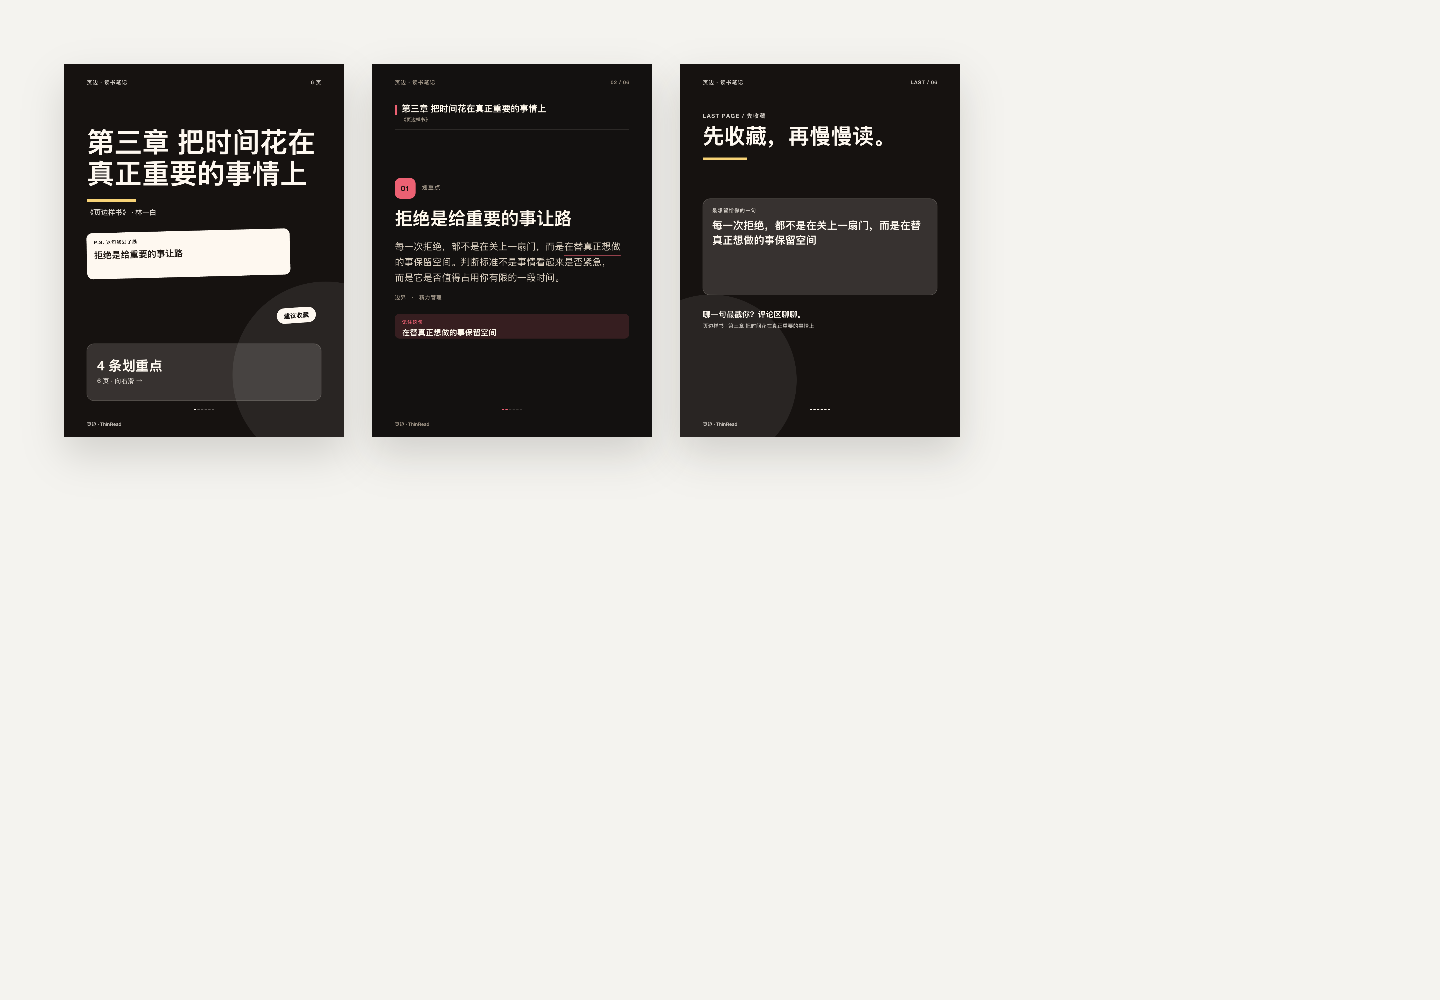
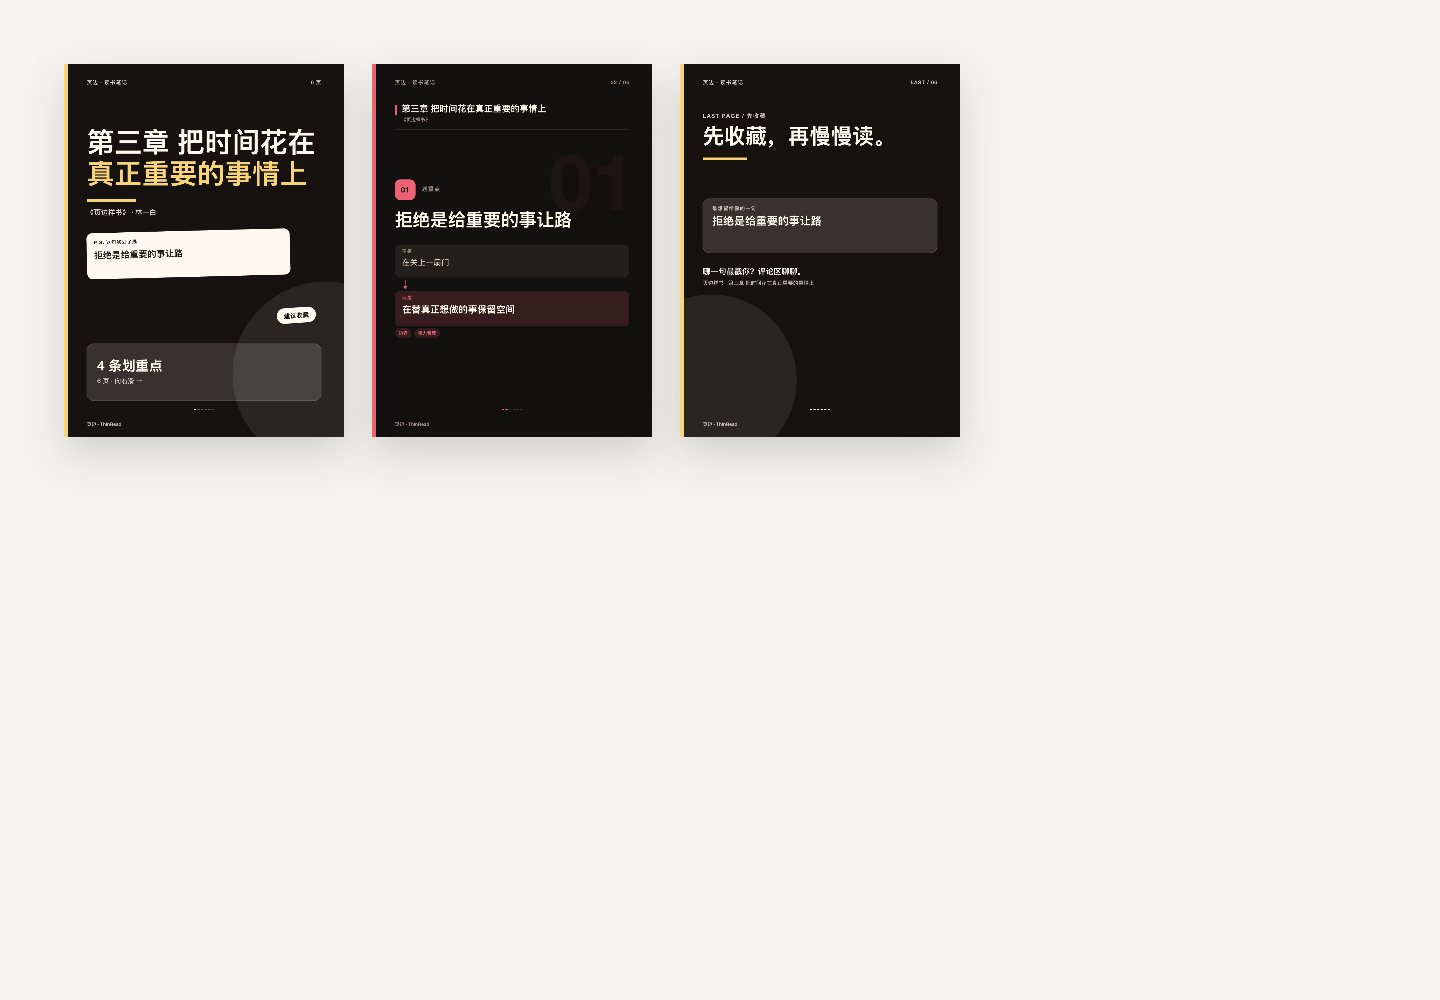
feat: add visual rhythm and contrast diagrams to xhs cards

Changed region(s): [[0.25, 0.155, 0.4375, 0.341], [0.4688, 0.186, 0.6562, 0.341], [0.0625, 0.155, 0.2188, 0.186]]

diff --git a/src/lib/xhs-carousel.ts b/src/lib/xhs-carousel.ts
@@ -172,6 +172,21 @@ function splitLead(content: string): { heading: string; body: string } {
   return { heading: text.slice(0, 74).trim(), body: text.slice(74).trim() }
 }
 
+/** 小红书卡片标题要短；把过长标题的后半句放回正文。 */
+function cutHeading(text: string, max = 28): { display: string; rest: string } {
+  if (text.length <= max) return { display: text, rest: '' }
+  const candidates = [text.split(/[：:]/)[0], text.split(/[，,]/)[0], text.split(/[；;]/)[0]]
+  for (const candidate of candidates) {
+    const value = candidate?.trim() ?? ''
+    if (value.length >= 8 && value.length <= max) {
+      const rest = text.slice(value.length).replace(/^[，,：:；;\s]+/, '').trim()
+      return { display: value, rest }
+    }
+  }
+  const cut = text.slice(0, max - 1).trim()
+  return { display: `${cut}…`, rest: text.slice(max - 1).trim() }
+}
+
 function normalizeCard(note: Note, number: number, bookTitle: string, chapterTitle: string | null): XhsCarouselCard | null {
   const content = flatten(
     note.content
@@ -190,12 +205,14 @@ function normalizeCard(note: Note, number: number, bookTitle: string, chapterTit
   } else {
     body = content
   }
+  const shortHeading = flatten(heading) || content.slice(0, 48)
+  const cut = cutHeading(shortHeading, 28)
+  if (cut.rest) body = [cut.rest, body].filter(Boolean).join(' ')
   if (body && body.length > 120) body = summarizeBody(body, 120)
-  const shortHeading = flatten(heading)
   return {
     id: note.id,
     number,
-    heading: shortHeading.length > 80 ? `${shortHeading.slice(0, 79)}…` : shortHeading || content.slice(0, 48),
+    heading: cut.display,
     body,
     tags: note.tags.slice(0, 4),
     chapterId: note.chapterId,
@@ -643,6 +660,120 @@ function drawDots(
   }
 }
 
+function drawSpine(ctx: CanvasRenderingContext2D, color: string): void {
+  ctx.fillStyle = color
+  ctx.fillRect(0, 0, 16, PAGE_HEIGHT)
+}
+
+function drawGhost(ctx: CanvasRenderingContext2D, text: string, palette: XhsPalette): void {
+  ctx.save()
+  ctx.globalAlpha = palette.dark ? 0.045 : 0.04
+  ctx.fillStyle = palette.accent
+  ctx.font = `800 300px ${SANS}`
+  ctx.textAlign = 'right'
+  ctx.fillText(text, PAGE_WIDTH - RIGHT + 24, 318)
+  ctx.restore()
+  ctx.textAlign = 'left'
+}
+
+function drawTagPills(
+  ctx: CanvasRenderingContext2D,
+  tags: string[],
+  x: number,
+  y: number,
+  palette: XhsPalette,
+): void {
+  let cursor = x
+  for (const tag of tags.slice(0, 3)) {
+    ctx.font = `600 17px ${SANS}`
+    const width = ctx.measureText(tag).width + 30
+    fillRoundRect(ctx, cursor, y, width, 36, 18, palette.accentSoft)
+    ctx.fillStyle = palette.accent
+    ctx.textBaseline = 'middle'
+    ctx.fillText(tag, cursor + 15, y + 19)
+    ctx.textBaseline = 'top'
+    cursor += width + 10
+  }
+}
+
+function parseContrast(text: string): { wrong: string; right: string } | null {
+  const match = text.match(/不是([^，。！？；]{2,32})[，,]?\s*而是([^，。！？；]{2,48})/)
+  if (!match) return null
+  return { wrong: match[1]!.trim(), right: match[2]!.trim() }
+}
+
+function drawContrastFeature(
+  ctx: CanvasRenderingContext2D,
+  part: XhsCarouselPart,
+  palette: XhsPalette,
+  heading: { lines: string[]; lineHeight: number; font: string },
+  bodyText: string,
+): void {
+  const contrast = parseContrast(bodyText)!
+  const areaTop = 300
+  const areaBottom = PAGE_HEIGHT - 236
+  const chip = 80
+  const wrong = fitText(ctx, contrast.wrong, CONTENT_WIDTH - 56, 110, 30, 22, 1.5, SANS, '500')
+  const right = fitText(ctx, contrast.right, CONTENT_WIDTH - 56, 150, 36, 26, 1.5, SANS, '700')
+  const boxA = 58 + wrong.lines.length * wrong.lineHeight + 24
+  const boxB = 58 + right.lines.length * right.lineHeight + 24
+  const arrow = 52
+  const headingHeight = heading.lines.length * heading.lineHeight
+  const tagsHeight = part.tags.length > 0 ? 46 : 0
+  const total = chip + 44 + headingHeight + 38 + boxA + arrow + boxB + tagsHeight
+  let y = areaTop + Math.max(0, (areaBottom - areaTop - total) / 2)
+
+  fillRoundRect(ctx, LEFT, y, chip, chip, 22, palette.accent)
+  ctx.fillStyle = palette.dark ? '#1a1210' : '#fff8ef'
+  ctx.font = `800 30px ${SANS}`
+  ctx.textAlign = 'center'
+  ctx.textBaseline = 'middle'
+  ctx.fillText(String(part.number).padStart(2, '0'), LEFT + chip / 2, y + chip / 2 + 1)
+  ctx.textAlign = 'left'
+  ctx.textBaseline = 'top'
+  drawTracked(ctx, t('划重点'), LEFT + chip + 24, y + 26, `700 22px ${SANS}`, palette.muted, 2)
+  y += chip + 44
+
+  ctx.fillStyle = palette.ink
+  ctx.font = heading.font
+  heading.lines.forEach((line, index) => ctx.fillText(line, LEFT, y + index * heading.lineHeight))
+  y += headingHeight + 38
+
+  const softBox = palette.dark ? 'rgba(255, 247, 234, 0.06)' : 'rgba(34, 26, 21, 0.05)'
+  fillRoundRect(ctx, LEFT, y, CONTENT_WIDTH, boxA, 20, softBox)
+  drawTracked(ctx, t('不是'), LEFT + 28, y + 18, `700 17px ${SANS}`, palette.muted, 2)
+  ctx.fillStyle = palette.soft
+  ctx.font = wrong.font
+  wrong.lines.forEach((line, index) => ctx.fillText(line, LEFT + 28, y + 54 + index * wrong.lineHeight))
+  y += boxA
+
+  ctx.strokeStyle = palette.accent
+  ctx.lineWidth = 3
+  ctx.beginPath()
+  ctx.moveTo(LEFT + 40, y + 10)
+  ctx.lineTo(LEFT + 40, y + arrow - 18)
+  ctx.stroke()
+  ctx.fillStyle = palette.accent
+  ctx.beginPath()
+  ctx.moveTo(LEFT + 32, y + arrow - 20)
+  ctx.lineTo(LEFT + 48, y + arrow - 20)
+  ctx.lineTo(LEFT + 40, y + arrow - 6)
+  ctx.closePath()
+  ctx.fill()
+  y += arrow
+
+  fillRoundRect(ctx, LEFT, y, CONTENT_WIDTH, boxB, 20, palette.accentSoft)
+  drawTracked(ctx, t('而是'), LEFT + 28, y + 18, `700 17px ${SANS}`, palette.accent, 2)
+  ctx.fillStyle = palette.ink
+  ctx.font = right.font
+  right.lines.forEach((line, index) => ctx.fillText(line, LEFT + 28, y + 54 + index * right.lineHeight))
+  y += boxB
+
+  if (part.tags.length > 0) {
+    drawTagPills(ctx, part.tags, LEFT, y + 8, palette)
+  }
+}
+
 function drawFooter(
   ctx: CanvasRenderingContext2D,
   palette: XhsPalette,
@@ -664,6 +795,7 @@ function drawCover(ctx: CanvasRenderingContext2D, plan: XhsCarouselPlan, palette
   const ink = '#fff8ef'
   ctx.fillStyle = ground
   ctx.fillRect(0, 0, PAGE_WIDTH, PAGE_HEIGHT)
+  drawSpine(ctx, palette.highlight)
 
   ctx.save()
   ctx.globalAlpha = palette.dark ? 0.08 : 0.12
@@ -687,9 +819,12 @@ function drawCover(ctx: CanvasRenderingContext2D, plan: XhsCarouselPlan, palette
 
   const title = fitText(ctx, plan.title, CONTENT_WIDTH, 560, 106, 58, 1.14, SANS, '800')
   const titleTop = 252
-  ctx.fillStyle = ink
   ctx.font = title.font
-  title.lines.forEach((line, index) => ctx.fillText(line, LEFT, titleTop + index * title.lineHeight))
+  title.lines.forEach((line, index) => {
+    ctx.fillStyle =
+      title.lines.length > 1 && index === title.lines.length - 1 ? palette.highlight : ink
+    ctx.fillText(line, LEFT, titleTop + index * title.lineHeight)
+  })
   const titleBottom = titleTop + title.lines.length * title.lineHeight
 
   ctx.fillStyle = palette.highlight
@@ -756,8 +891,13 @@ function drawFeature(
   const areaBottom = PAGE_HEIGHT - 236
 
   const headingText = joinText(part.headingLines)
-  const heading = fitText(ctx, headingText, CONTENT_WIDTH, 340, 68, 42, 1.32, SANS, '800')
   const bodyText = joinText(part.bodyLines)
+  const heading = fitText(ctx, headingText, CONTENT_WIDTH, 340, 68, 42, 1.32, SANS, '800')
+  const contrast = bodyText ? parseContrast(bodyText) : null
+  if (contrast) {
+    drawContrastFeature(ctx, part, palette, heading, bodyText)
+    return
+  }
   const body = bodyText ? fitText(ctx, bodyText, CONTENT_WIDTH, 460, 36, 26, 1.68, SANS, '400') : null
   const note = bodyText ? findKeyPhrase(bodyText) : ''
   const chip = 80
@@ -802,7 +942,7 @@ function drawFeature(
   }
 
   if (part.tags.length > 0) {
-    drawTracked(ctx, part.tags.slice(0, 3).join('   ·   '), LEFT, y + 24, `600 20px ${SANS}`, palette.muted, 1.6)
+    drawTagPills(ctx, part.tags, LEFT, y + 18, palette)
     y += tagsHeight
   }
 
@@ -875,15 +1015,7 @@ function drawStack(
       cursor += part.bodyLines.length * BODY_LINE_HEIGHT
     }
     if (part.tags.length > 0) {
-      drawTracked(
-        ctx,
-        part.tags.slice(0, 3).join('   ·   '),
-        LEFT + chip + 28,
-        cursor + 12,
-        `600 19px ${SANS}`,
-        palette.muted,
-        1.6,
-      )
+      drawTagPills(ctx, part.tags, LEFT + chip + 28, cursor + 8, palette)
     }
     y += blockHeight(part) + gap
   })
@@ -899,6 +1031,8 @@ function drawContent(
 ): void {
   ctx.fillStyle = palette.bg
   ctx.fillRect(0, 0, PAGE_WIDTH, PAGE_HEIGHT)
+  drawSpine(ctx, palette.accent)
+  drawGhost(ctx, String(page.parts[0]?.number ?? pageIndex + 1).padStart(2, '0'), palette)
 
   drawTopBar(
     ctx,
@@ -928,16 +1062,14 @@ function drawContent(
   drawFooter(ctx, palette, plan.brand)
 }
 
-/** 结尾选一句更像“人话”的句子；技术标题不适合当金句。 */
-function takeawayText(card: XhsCarouselCard): string {
-  const sentences = card.body
-    .split(/(?<=[。！？!?])/)
-    .map((sentence) => sentence.trim())
-    .filter((sentence) => sentence.length >= 12)
-  const preferred = sentences.find((sentence) =>
-    /不是|而是|真正|关键|本质|意味着|与其|不如/.test(sentence),
-  )
-  return (preferred ?? card.heading).replace(/[。.]$/, '').trim()
+/** 结尾金句更看重“人话”和反差，而不是信息量。 */
+function closingScore(card: XhsCarouselCard): number {
+  let score = 0
+  if (/不是|而是|真正|关键|本质|意味着|与其|不如/.test(card.heading)) score += 6
+  if (/[？?]$/.test(card.heading)) score += 3
+  if (card.heading.length >= 10 && card.heading.length <= 30) score += 2
+  if (/\d/.test(card.heading)) score -= 2
+  return score
 }
 
 function drawClosing(ctx: CanvasRenderingContext2D, plan: XhsCarouselPlan, palette: XhsPalette, total: number): void {
@@ -945,6 +1077,7 @@ function drawClosing(ctx: CanvasRenderingContext2D, plan: XhsCarouselPlan, palet
   const ink = '#fff8ef'
   ctx.fillStyle = ground
   ctx.fillRect(0, 0, PAGE_WIDTH, PAGE_HEIGHT)
+  drawSpine(ctx, palette.highlight)
 
   ctx.save()
   ctx.globalAlpha = palette.dark ? 0.08 : 0.12
@@ -968,38 +1101,34 @@ function drawClosing(ctx: CanvasRenderingContext2D, plan: XhsCarouselPlan, palet
   ctx.fillStyle = palette.highlight
   ctx.fillRect(LEFT, titleBottom + 26, 170, 10)
 
-  const takeaway = plan.cards.reduce(
-    (best, card) => (cardScore(card) > cardScore(best) ? card : best),
-    plan.cards[0]!,
-  )
+  const takeaway =
+    plan.cards
+      .filter(
+        (card) =>
+          card.heading.length >= 8 &&
+          card.heading.length <= 40 &&
+          !/[A-Za-z]{2,}/.test(card.heading),
+      )
+      .sort((left, right) => closingScore(right) - closingScore(left))[0] ?? plan.cards[plan.cards.length - 1]
+  let ctaTop = 858
   if (takeaway) {
-    fillRoundRect(ctx, LEFT, 520, CONTENT_WIDTH, 372, 28, 'rgba(255, 248, 239, 0.14)')
-    strokeRoundRect(ctx, LEFT, 520, CONTENT_WIDTH, 372, 28, 'rgba(255, 248, 239, 0.22)')
+    const quoteText = takeaway.heading.replace(/[。.]$/, '')
+    const quote = fitText(ctx, quoteText, CONTENT_WIDTH - 72, 176, 42, 28, 1.42, SANS, '700')
+    const cardHeight = 150 + quote.lines.length * quote.lineHeight
+    fillRoundRect(ctx, LEFT, 520, CONTENT_WIDTH, cardHeight, 28, 'rgba(255, 248, 239, 0.14)')
+    strokeRoundRect(ctx, LEFT, 520, CONTENT_WIDTH, cardHeight, 28, 'rgba(255, 248, 239, 0.22)')
     ctx.globalAlpha = 0.76
-    drawTracked(ctx, t('最想留给你的一句'), LEFT + 36, 556, `700 19px ${SANS}`, ink, 2)
+    drawTracked(ctx, t('最想留给你的一句'), LEFT + 36, 548, `700 19px ${SANS}`, ink, 2)
     ctx.globalAlpha = 1
-    const quoteText = takeawayText(takeaway)
-    const quote = fitText(ctx, quoteText, CONTENT_WIDTH - 72, 176, 40, 28, 1.42, SANS, '700')
     ctx.fillStyle = ink
     ctx.font = quote.font
-    quote.lines.forEach((line, index) => ctx.fillText(line, LEFT + 36, 604 + index * quote.lineHeight))
-    const quoteBottom = 604 + quote.lines.length * quote.lineHeight
-    const bodyText = quoteText === takeaway.heading ? takeaway.body : ''
-    const body = bodyText
-      ? fitText(ctx, bodyText, CONTENT_WIDTH - 72, 124, 25, 19, 1.65, SANS, '400')
-      : null
-    if (body) {
-      ctx.globalAlpha = 0.8
-      ctx.fillStyle = ink
-      ctx.font = body.font
-      body.lines.forEach((line, index) => ctx.fillText(line, LEFT + 36, quoteBottom + 26 + index * body.lineHeight))
-      ctx.globalAlpha = 1
-    }
+    quote.lines.forEach((line, index) => ctx.fillText(line, LEFT + 36, 586 + index * quote.lineHeight))
+    ctaTop = 520 + cardHeight + 56
   }
 
   ctx.fillStyle = ink
   ctx.font = `700 30px ${SANS}`
-  ctx.fillText(t('哪一句最戳你？评论区聊聊。'), LEFT, 952)
+  ctx.fillText(t('哪一句最戳你？评论区聊聊。'), LEFT, ctaTop)
   ctx.globalAlpha = 0.72
   ctx.font = `500 20px ${SANS}`
   ctx.fillText(
@@ -1007,7 +1136,7 @@ function drawClosing(ctx: CanvasRenderingContext2D, plan: XhsCarouselPlan, palet
       ? `${plan.bookTitle}${takeaway?.chapterTitle ? ` · ${takeaway.chapterTitle}` : ''}`
       : `${plan.bookTitle} · ${plan.author || t('未署名')}`,
     LEFT,
-    1002,
+    ctaTop + 50,
   )
   ctx.globalAlpha = 1
 
